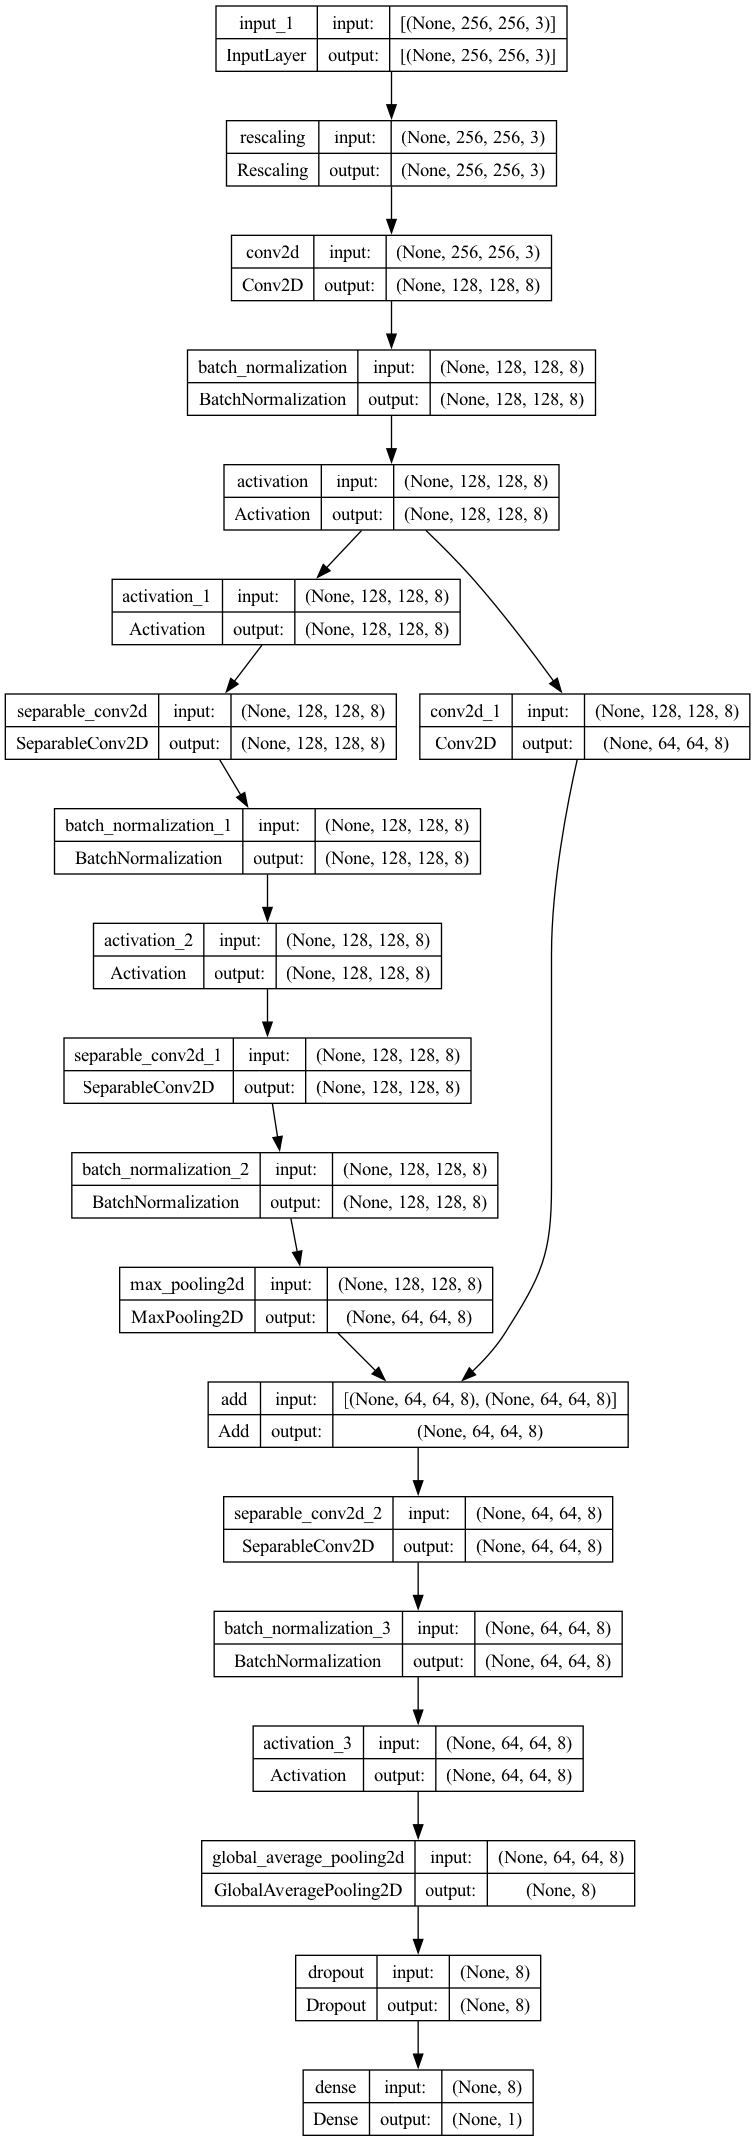
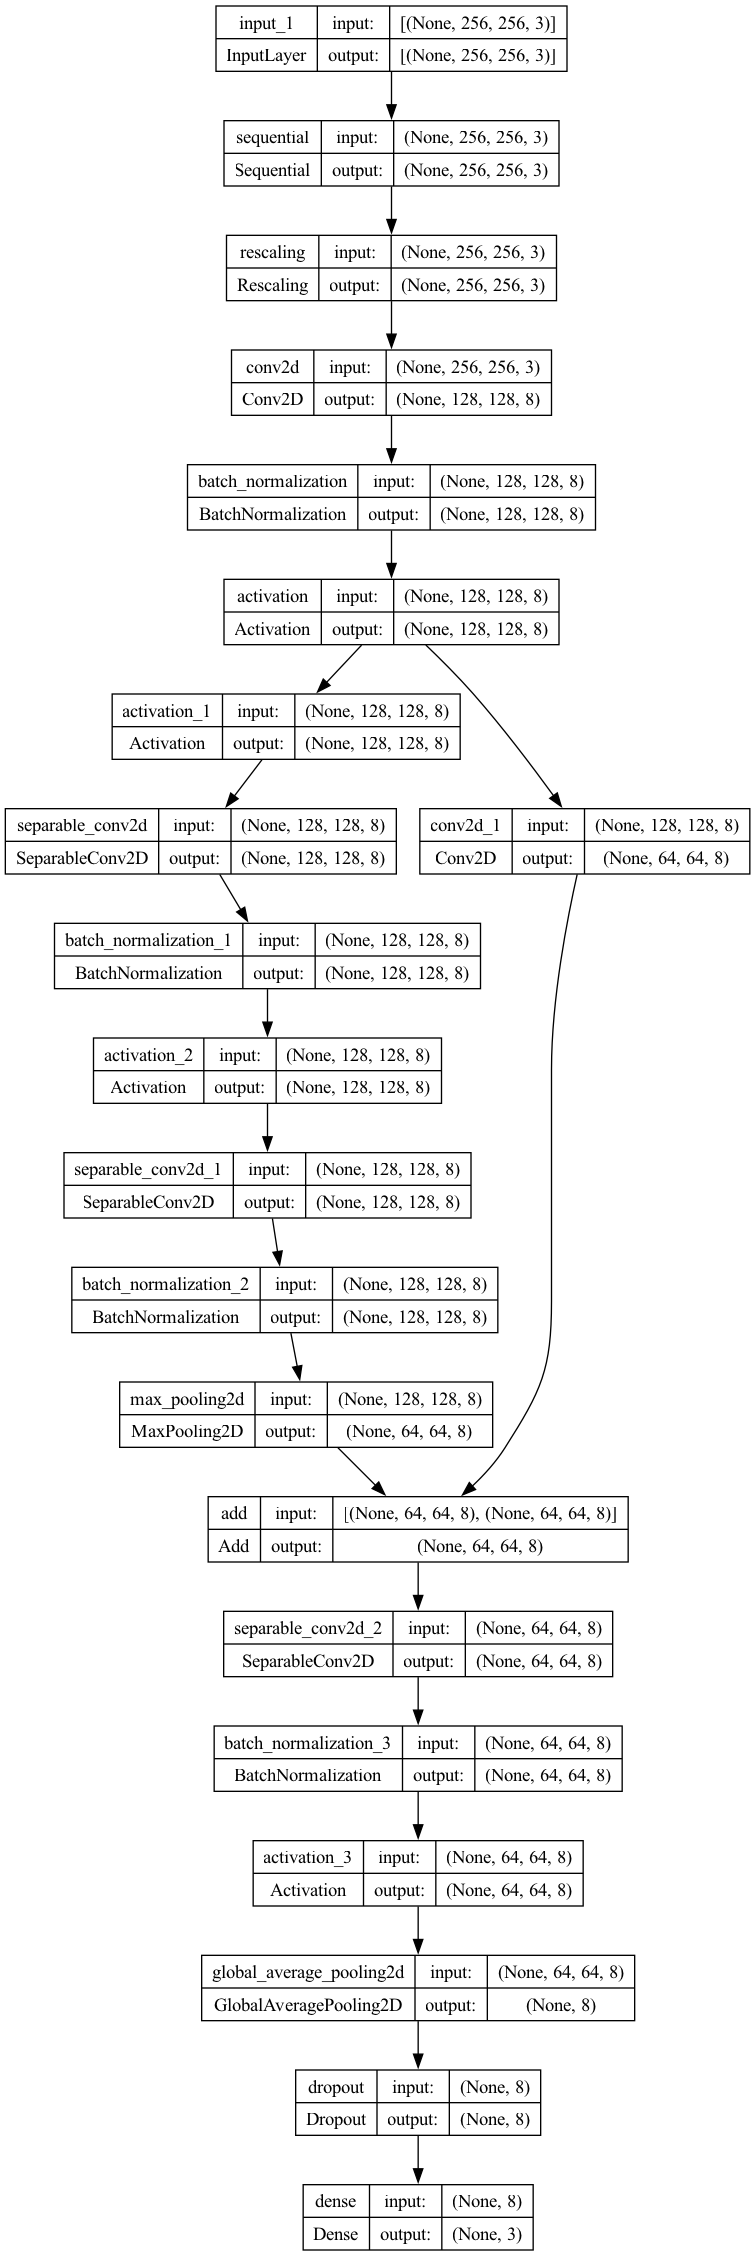
Code works for multi-class classification

Changed region(s): [[0.0, 0.0, 1.0, 1.0], [0.7007, 0.5549, 0.7311, 0.6165]]

diff --git a/training.py b/training.py
@@ -75,18 +75,22 @@ def train_keras():
 
     dir_fire = 'frames/Training/Fire/'
     dir_no_fire = 'frames/Training/No_Fire/'
+    dir_smoke = 'frames/Training/Smoke/'
 
     # Count images for each class: 0 is Fire and 1 is NO_Fire
     fire = len([name for name in os.listdir(dir_fire) if os.path.isfile(os.path.join(dir_fire, name))])
     no_fire = len([name for name in os.listdir(dir_no_fire) if os.path.isfile(os.path.join(dir_no_fire, name))])
-    total = fire + no_fire
+    smoke = len([name for name in os.listdir(dir_smoke) if os.path.isfile(os.path.join(dir_smoke, name))])
+    total = fire + no_fire + smoke
 
-    weight_for_fire = (1 / fire) * total / 2.0
-    weight_for_no_fire = (1 / no_fire) * total / 2.0
+    weight_for_fire = (1 / fire) * total / 3.0
+    weight_for_no_fire = (1 / no_fire) * total / 3.0
+    weight_for_smoke = (1 / smoke) * total / 3.0
     # class_weight = {0: weight_for_fire, 1: weight_for_no_fire}
 
-    print("Weight for class fire : {:.2f}".format(weight_for_fire))
+    print("Weight for class Fire : {:.2f}".format(weight_for_fire))
     print("Weight for class No_fire : {:.2f}".format(weight_for_no_fire))
+    print("Weight for class Smoke : {:.2f}".format(weight_for_smoke))
 
     # Prepare datasets
     train_ds = tf.keras.preprocessing.image_dataset_from_directory(
@@ -115,11 +119,12 @@ def train_keras():
             plt.imshow(augmented_images[0].numpy().astype("uint8"))
             plt.axis("off")
 
+    # Prefetching for performance optimisation
     train_ds = train_ds.prefetch(buffer_size=32)
     val_ds = val_ds.prefetch(buffer_size=32)
 
     # Define model
-    model = make_model_keras(input_shape=image_size + (3,), num_classes=2)
+    model = make_model_keras(input_shape=image_size + (3,), num_classes=3)
     keras.utils.plot_model(model, show_shapes=True)
 
     # Add the custom logger callback
@@ -130,7 +135,7 @@ def train_keras():
     # callbacks = [keras.callbacks.ModelCheckpoint("save_at_{epoch}.h5"), ]
     model.compile(
         optimizer=keras.optimizers.Adam(1e-3), 
-        loss="binary_crossentropy", 
+        loss="sparse_categorical_crossentropy", 
         metrics=["accuracy"]
     )
     res_fire = model.fit(train_ds, epochs=epochs, callbacks=callbacks, validation_data=val_ds, batch_size=batch_size)
@@ -145,13 +150,13 @@ def train_keras():
         plot_training(res_fire, 'KerasModel', layers_len)
 
     # Prediction on one sample frame from the test set
-    img = keras.preprocessing.image.load_img(
-        "frames/Training/Fire/resized_frame1801.jpg", target_size=image_size)
-    img_array = keras.preprocessing.image.img_to_array(img)
-    img_array = tf.expand_dims(img_array, 0)
-    predictions = model.predict(img_array)
-    score = predictions[0]
-    print("This image is %.2f percent Fire and %.2f percent No Fire." % (100 * (1 - score), 100 * score))
+    # img = keras.preprocessing.image.load_img(
+    #     "frames/Training/Fire/resized_frame1801.jpg", target_size=image_size)
+    # img_array = keras.preprocessing.image.img_to_array(img)
+    # img_array = tf.expand_dims(img_array, 0)
+    # predictions = model.predict(img_array)
+    # score = predictions[0]
+    # print("This image is %.2f percent Fire and %.2f percent No Fire." % (100 * (1 - score), 100 * score))
 
 
 def make_model_keras(input_shape, num_classes):
@@ -162,8 +167,8 @@ def make_model_keras(input_shape, num_classes):
     :return: The built model is returned
     """
     inputs = keras.Input(shape=input_shape)
-    # x = data_augmentation(inputs)  # 1) First option
-    x = inputs  # 2) Second option
+    x = data_augmentation(inputs)  # 1) First option
+    # x = inputs  # 2) Second option
 
     x = layers.experimental.preprocessing.Rescaling(1.0 / 255)(x)
     # x = layers.Conv2D(32, 3, strides=2, padding="same")(x)

diff --git a/classification.py b/classification.py
@@ -23,7 +23,7 @@ batch_size = Config_classification.get('batch_size')
 image_size = (new_size.get('width'), new_size.get('height'))
 epochs = Config_classification.get('Epochs')
 
-MODEL_PATH = "models/binary_classification/checkpoints/save_at_1.h5"
+# MODEL_PATH = "models/xception_v4/checkpoints/save_at_40.h5"
 
 
 #########################################################
@@ -40,15 +40,15 @@ def classify():
     )
 
     # model_fire = load_model('Output/Models/model_fire_resnet_not_weighted_40_no_metric_simple')
-    model_fire = load_model(MODEL_PATH)
+    # model_fire = load_model(MODEL_PATH)
 
     # _ = model_fire.evaluate(test_ds, batch_size=batch_size)
 
     # best_model_fire = load_model('Output/Models/h5model/keras/save_at_25.h5')
-    best_model_fire = load_model(MODEL_PATH)
+    best_model_fire = load_model(get_best_checkpoint(Config_classification.get("model_path")))
     results_eval = best_model_fire.evaluate(test_ds, batch_size=batch_size)
 
-    for name, value in zip(model_fire.metrics_names, results_eval):
+    for name, value in zip(best_model_fire.metrics_names, results_eval):
         print(name, ': ', value)
     print()
 
@@ -73,3 +73,24 @@ def classify():
     # fn = no_fire_eval[1] * true_no_fire
     # cm = np.array([[tp, fn], [fp, tn]], dtype=int)
     # plot_confusion_matrix(cm=cm, classes=cm_plot_labels, title='Confusion Matrix')
+
+def get_best_checkpoint(model_path):
+    with open(f"{model_path}/logs.txt") as f:
+        max_val_accuracy = 0
+        best_epoch = None
+
+        current_epoch = None
+        for line in f:
+            line = line.strip()
+            if line.startswith("Epoch"):
+                current_epoch = int(line.split(" ")[1][:-1])
+            if line.startswith("val_accuracy"):
+                current_val_accuracy = float(line.split(" ")[1])
+                if current_val_accuracy > max_val_accuracy:
+                    best_epoch = current_epoch
+                    max_val_accuracy = current_val_accuracy
+
+    print("Best epoch: ", best_epoch)
+    print("Max val_accuracy: ", max_val_accuracy)
+
+    return f"{model_path}/checkpoints/save_at_{best_epoch}.h5"

diff --git a/config.py b/config.py
@@ -22,10 +22,10 @@ Flags = {'playVideoFlag': True, 'SaveRawFrameFlag': False, 'ResizeFlag': False, 
 new_size = {'width': 256, 'height': 256}
 segmentation_new_size = {'width': 512, 'height': 512}
 # Config_classification = {"batch_size": 32, 'Save_Model': True, 'Epochs': 40, "TrainingPlot": False}
-Config_classification = {"batch_size": 16, 'Save_Model': True, 'Epochs': 5, "TrainingPlot": True, "model_path": "models/binary_classification"}
+Config_classification = {"batch_size": 32, 'Save_Model': True, 'Epochs': 40, "TrainingPlot": True, "model_path": "models/xception_v1"}
 config_segmentation = {"batch_size": 16, 'Save_Model': False, 'Epochs': 30, "TrainingPlot": False,
                        "train_set_ratio": 0.85, "val_set_ratio": 0.15, "num_class": 2, "CHANNELS": 3}
-Mode = 'Training'
+Mode = 'Classification'
 # Different Modes {"Fire", "Lake_Mary", "Test_Frame", "Training", "Classification", "Rename", "Segmentation",
 #                   "Scheduling"}
 
